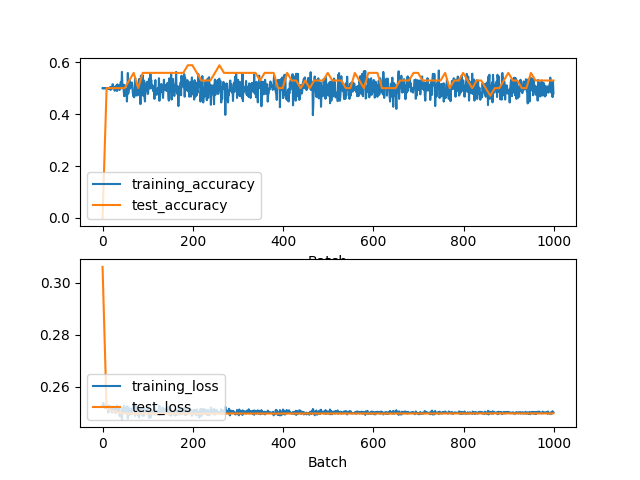
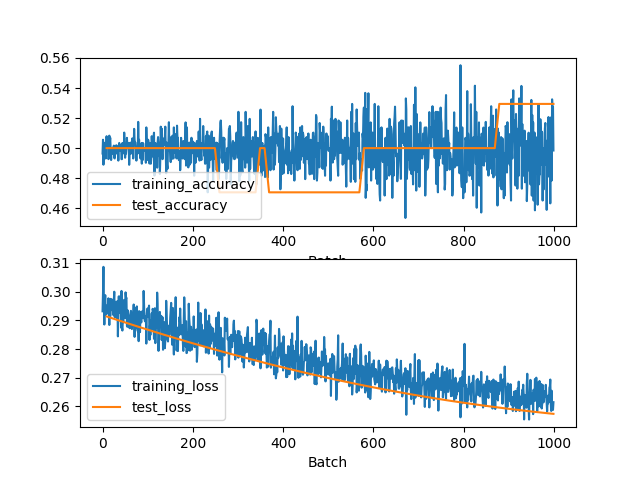
this is going somewhere

diff --git a/planner/policylearn/train_model_gcn.py b/planner/policylearn/train_model_gcn.py
@@ -11,7 +11,8 @@ from matplotlib import pyplot as plt
 from tools import ProgressBar
 from torch.nn import Linear
 from torch.special import expit
-from torch_geometric.nn import GCNConv, global_mean_pool
+from torch_geometric.nn import (GCNConv, global_add_pool, global_max_pool,
+                                global_mean_pool)
 
 
 # src: https://colab.research.google.com/drive/1I8a0DfQ3fI7Njc62__mVXUlcAleUclnb?usp=sharing
@@ -21,8 +22,8 @@ class GCN(torch.nn.Module):
         torch.manual_seed(0)
         self.conv1 = GCNConv(num_node_features, hidden_channels)
         self.conv2 = GCNConv(hidden_channels, hidden_channels)
-        self.conv3 = GCNConv(hidden_channels, hidden_channels)
-        self.lin = Linear(hidden_channels, 1)
+        # self.conv3 = GCNConv(hidden_channels, hidden_channels)
+        self.lin = Linear(hidden_channels*3, 1)
 
     def forward(self, x, edge_index, pos):
         # all in the same network
@@ -32,14 +33,18 @@ class GCN(torch.nn.Module):
         x = self.conv1(x, edge_index)
         x = x.relu()
         x = self.conv2(x, edge_index)
-        x = x.relu()
-        x = self.conv3(x, edge_index)
+        # x = x.relu()
+        # x = self.conv3(x, edge_index)
 
         # 2. Readout layer
-        x = global_mean_pool(x, batch)  # [batch_size, hidden_channels]
+        x = torch.cat((
+            global_mean_pool(x, batch),
+            global_max_pool(x, batch),
+            global_add_pool(x, batch)
+        ), 1)
 
         # 3. Apply a final classifier
-        x = F.dropout(x, p=0.5, training=self.training)
+        x = F.dropout(x, p=0.1, training=self.training)
         x = self.lin(x)
         x = expit(x)  # logistics function
 
@@ -149,10 +154,10 @@ if __name__ == "__main__":
 
                 # create model
                 model = GCN(
-                    hidden_channels=4,
+                    hidden_channels=8,
                     num_node_features=num_node_features
                 )
-                optimizer = torch.optim.Adam(model.parameters())
+                optimizer = torch.optim.Adam(model.parameters(), lr=1e-5)
 
                 # train
                 training_accuracy: List[float] = []
@@ -168,9 +173,9 @@ if __name__ == "__main__":
                     model, [train_graphs[0]])
                 print(f"pretrain_test_loss: {pretrain_test_loss}")
                 print(f"pretrain_test_accuracy: {pretrain_test_accuracy}")
-                test_x.append(0)
-                test_accuracy.append(pretrain_test_accuracy)
-                test_loss.append(pretrain_test_loss)
+                # test_x.append(0)
+                # test_accuracy.append(pretrain_test_accuracy)
+                # test_loss.append(pretrain_test_loss)
             # (if) on first file only
             one_training_accuracy, one_training_loss = train(
                 model, train_graphs, optimizer)
